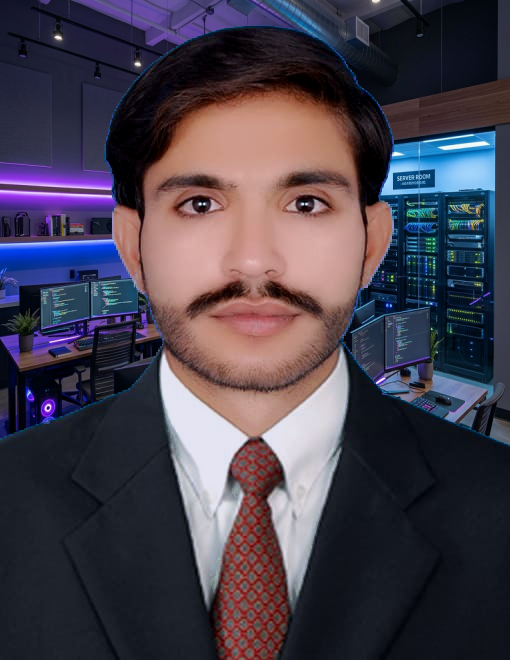
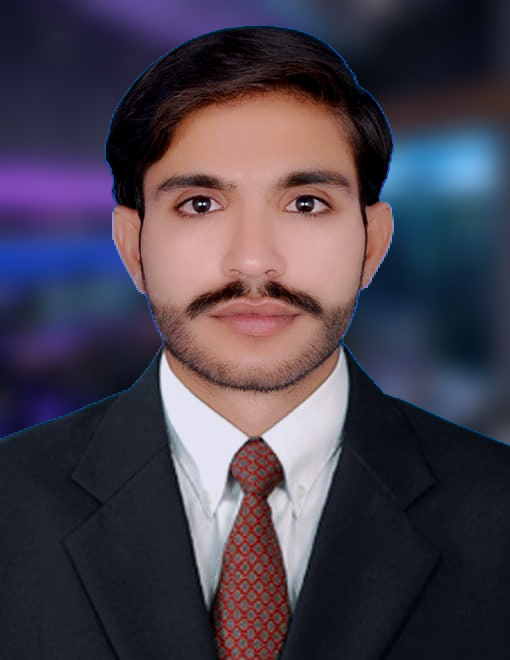
style: apply soft blur to development studio profile backdrop for premium depth-of-field

diff --git a/chroma_key.js b/chroma_key.js
@@ -19,6 +19,9 @@ async function processImage() {
     // Resize background image to match the user image size
     bgImg.resize({ w: userWidth, h: userHeight });
 
+    // Apply a soft blur filter to create a professional depth-of-field bokeh effect
+    bgImg.blur(15);
+
     // Sample the background color from top-left (x=10, y=10)
     const targetIdx = (10 + 10 * userWidth) * 4;
     const bgR = userImg.bitmap.data[targetIdx];
